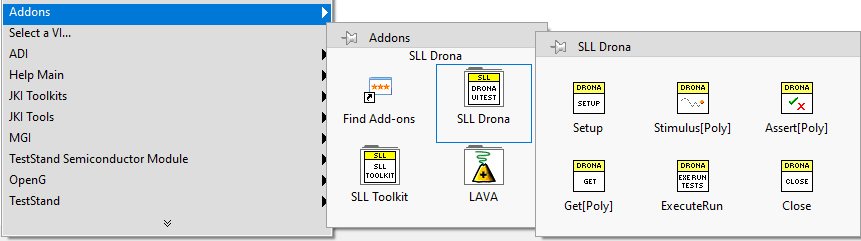
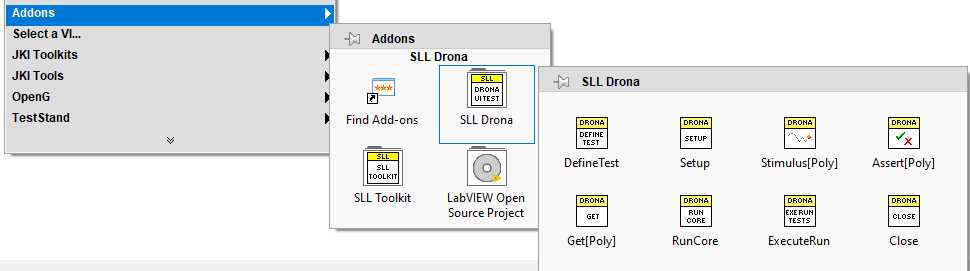
Updated readme.md file with v0.3.0 release link (along with Functions palette image) (#68)
Updated README.md with v0.3.0 release link (with Functions Palette image updated)

diff --git a/README.md b/README.md
@@ -12,7 +12,7 @@ SLL Drona as an Open Source LabVIEW UI testing framework was presented in GLA Su
 Source code is saved with LabVIEW 2016.
 
 ## Installation
-Please find the latest SLL Drona package available [here](https://github.com/solitontech/SLL-Drona/releases/tag/v0.2.0) and install it using VI Package Manager.
+Please find the latest SLL Drona package available [here](https://github.com/solitontech/SLL-Drona/releases/tag/v0.3.0) and install it using VI Package Manager.
 
 ## Usage
 Drona provides a library of VIs that are used to automate and test the UI without any flaws. It can be used to test any LabVIEW application and supports creating test cases from SLL Drona APIs.
